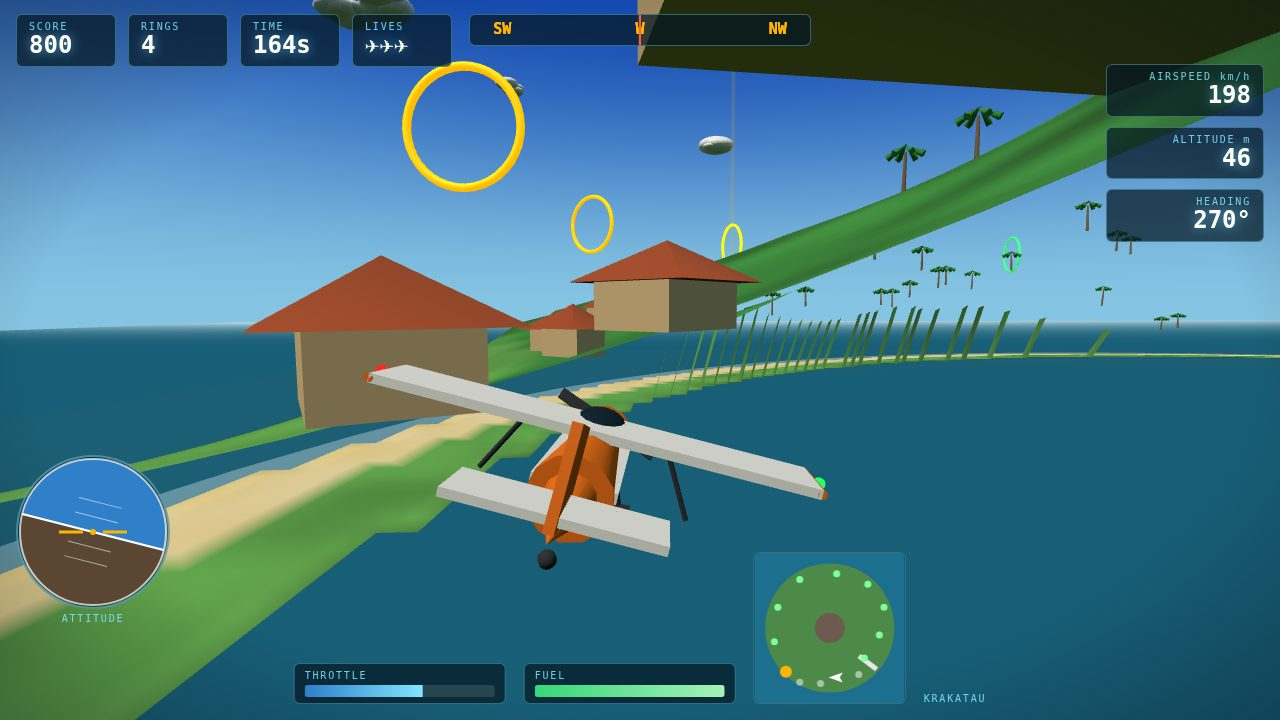
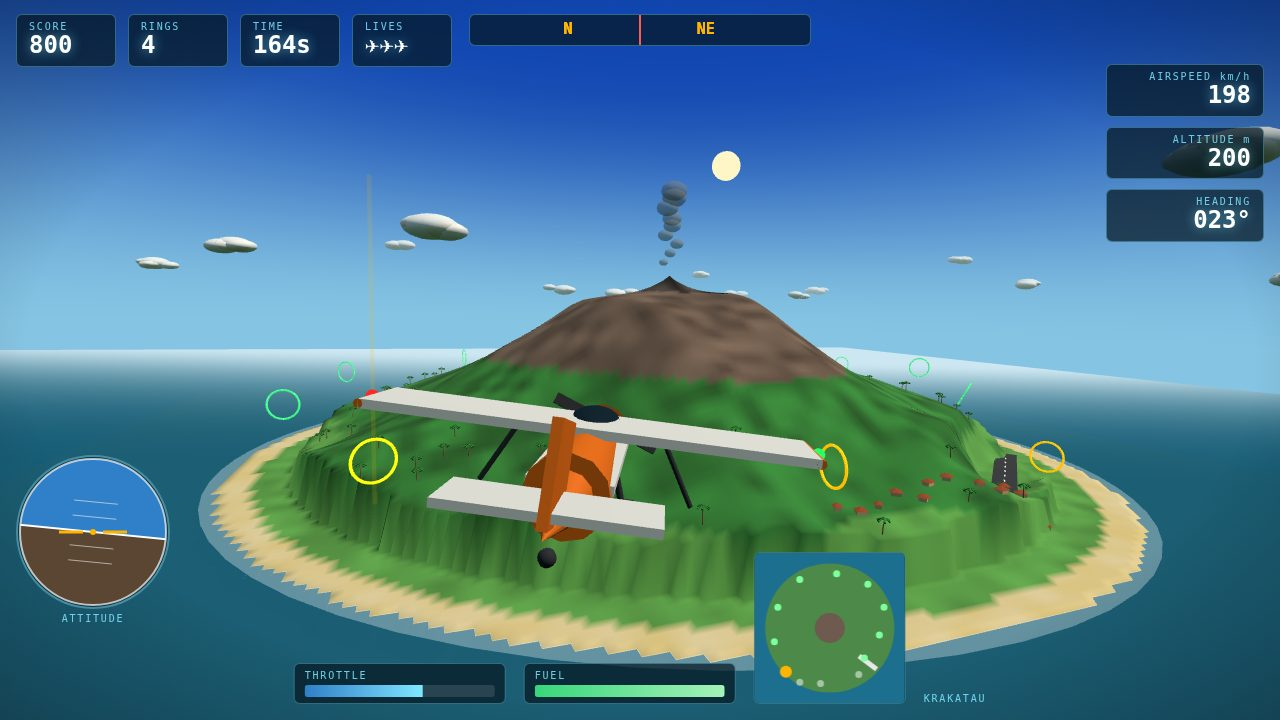
Re-stage screenshots: wide coast shot with volcano, cockpit view; expose window.__game for playtest

diff --git a/game/src/shots.js b/game/src/shots.js
@@ -69,7 +69,9 @@ function stageLanding(ctx) {
 /**
  * Stage a named scene. Returns nothing; the caller renders one frame after.
  * Scenes: cover (mid-course, volcano + ring ahead), ring (threading a gate),
- * coast (low over the beach village), land (final approach to the runway).
+ * coast (high over the south beach: village + whole volcano), cockpit
+ * (from the canopy, next ring ahead with the crater behind it),
+ * land (final approach to the runway).
  */
 export function stageShot(name, ctx) {
   const { flight, game } = ctx;
@@ -87,13 +89,34 @@ export function stageShot(name, ctx) {
     runSteps(ctx, 26, steerToNextRing);
     return;
   }
+  if (name === 'cockpit') {
+    runSteps(ctx, 12, steerToNextRing);
+    // Frame the next ring with the volcano directly behind it: place the
+    // plane on the volcano-to-ring line, 220 m past the ring, looking back
+    // through the gate at the crater and its smoke.
+    const idx = Math.min(ctx.game.nextRing, ctx.ringCentres.length - 1);
+    const target = ctx.ringCentres[idx];
+    const len = Math.hypot(target.x, target.z) || 1;
+    const ux = target.x / len;
+    const uz = target.z / len;
+    flight.pos.set(target.x + ux * 220, target.y + 8, target.z + uz * 220);
+    flight.heading = Math.atan2(-(target.x - flight.pos.x), -(target.z - flight.pos.z));
+    flight.pitch = 0;
+    flight.roll = 0;
+    flight.speed = 55;
+    flight.throttle = 0.6;
+    game.cameraMode = 1;
+    return;
+  }
   if (name === 'coast') {
     runSteps(ctx, 34, steerToNextRing);
-    // Drop low over the south beach for the village shot.
-    flight.pos.set(60, 46, 430);
-    flight.heading = Math.PI / 2;
+    // Wide establishing shot from the south-west sea: beach and village
+    // mid-frame, the whole volcano cone with crater and smoke behind them,
+    // sea in front. Close-in poses filled the frame with one bare slope.
+    flight.pos.set(-350, 200, 800);
+    flight.heading = -0.41;
     flight.pitch = 0;
-    flight.roll = -0.25;
+    flight.roll = -0.1;
     flight.speed = 55;
     return;
   }

diff --git a/game/src/main.js b/game/src/main.js
@@ -482,3 +482,6 @@ if (SHOT) {
 }
 
 export { game, flight };
+
+// Debug/playtest handle: the live game state for automated checks.
+window.__game = { game, flight };
